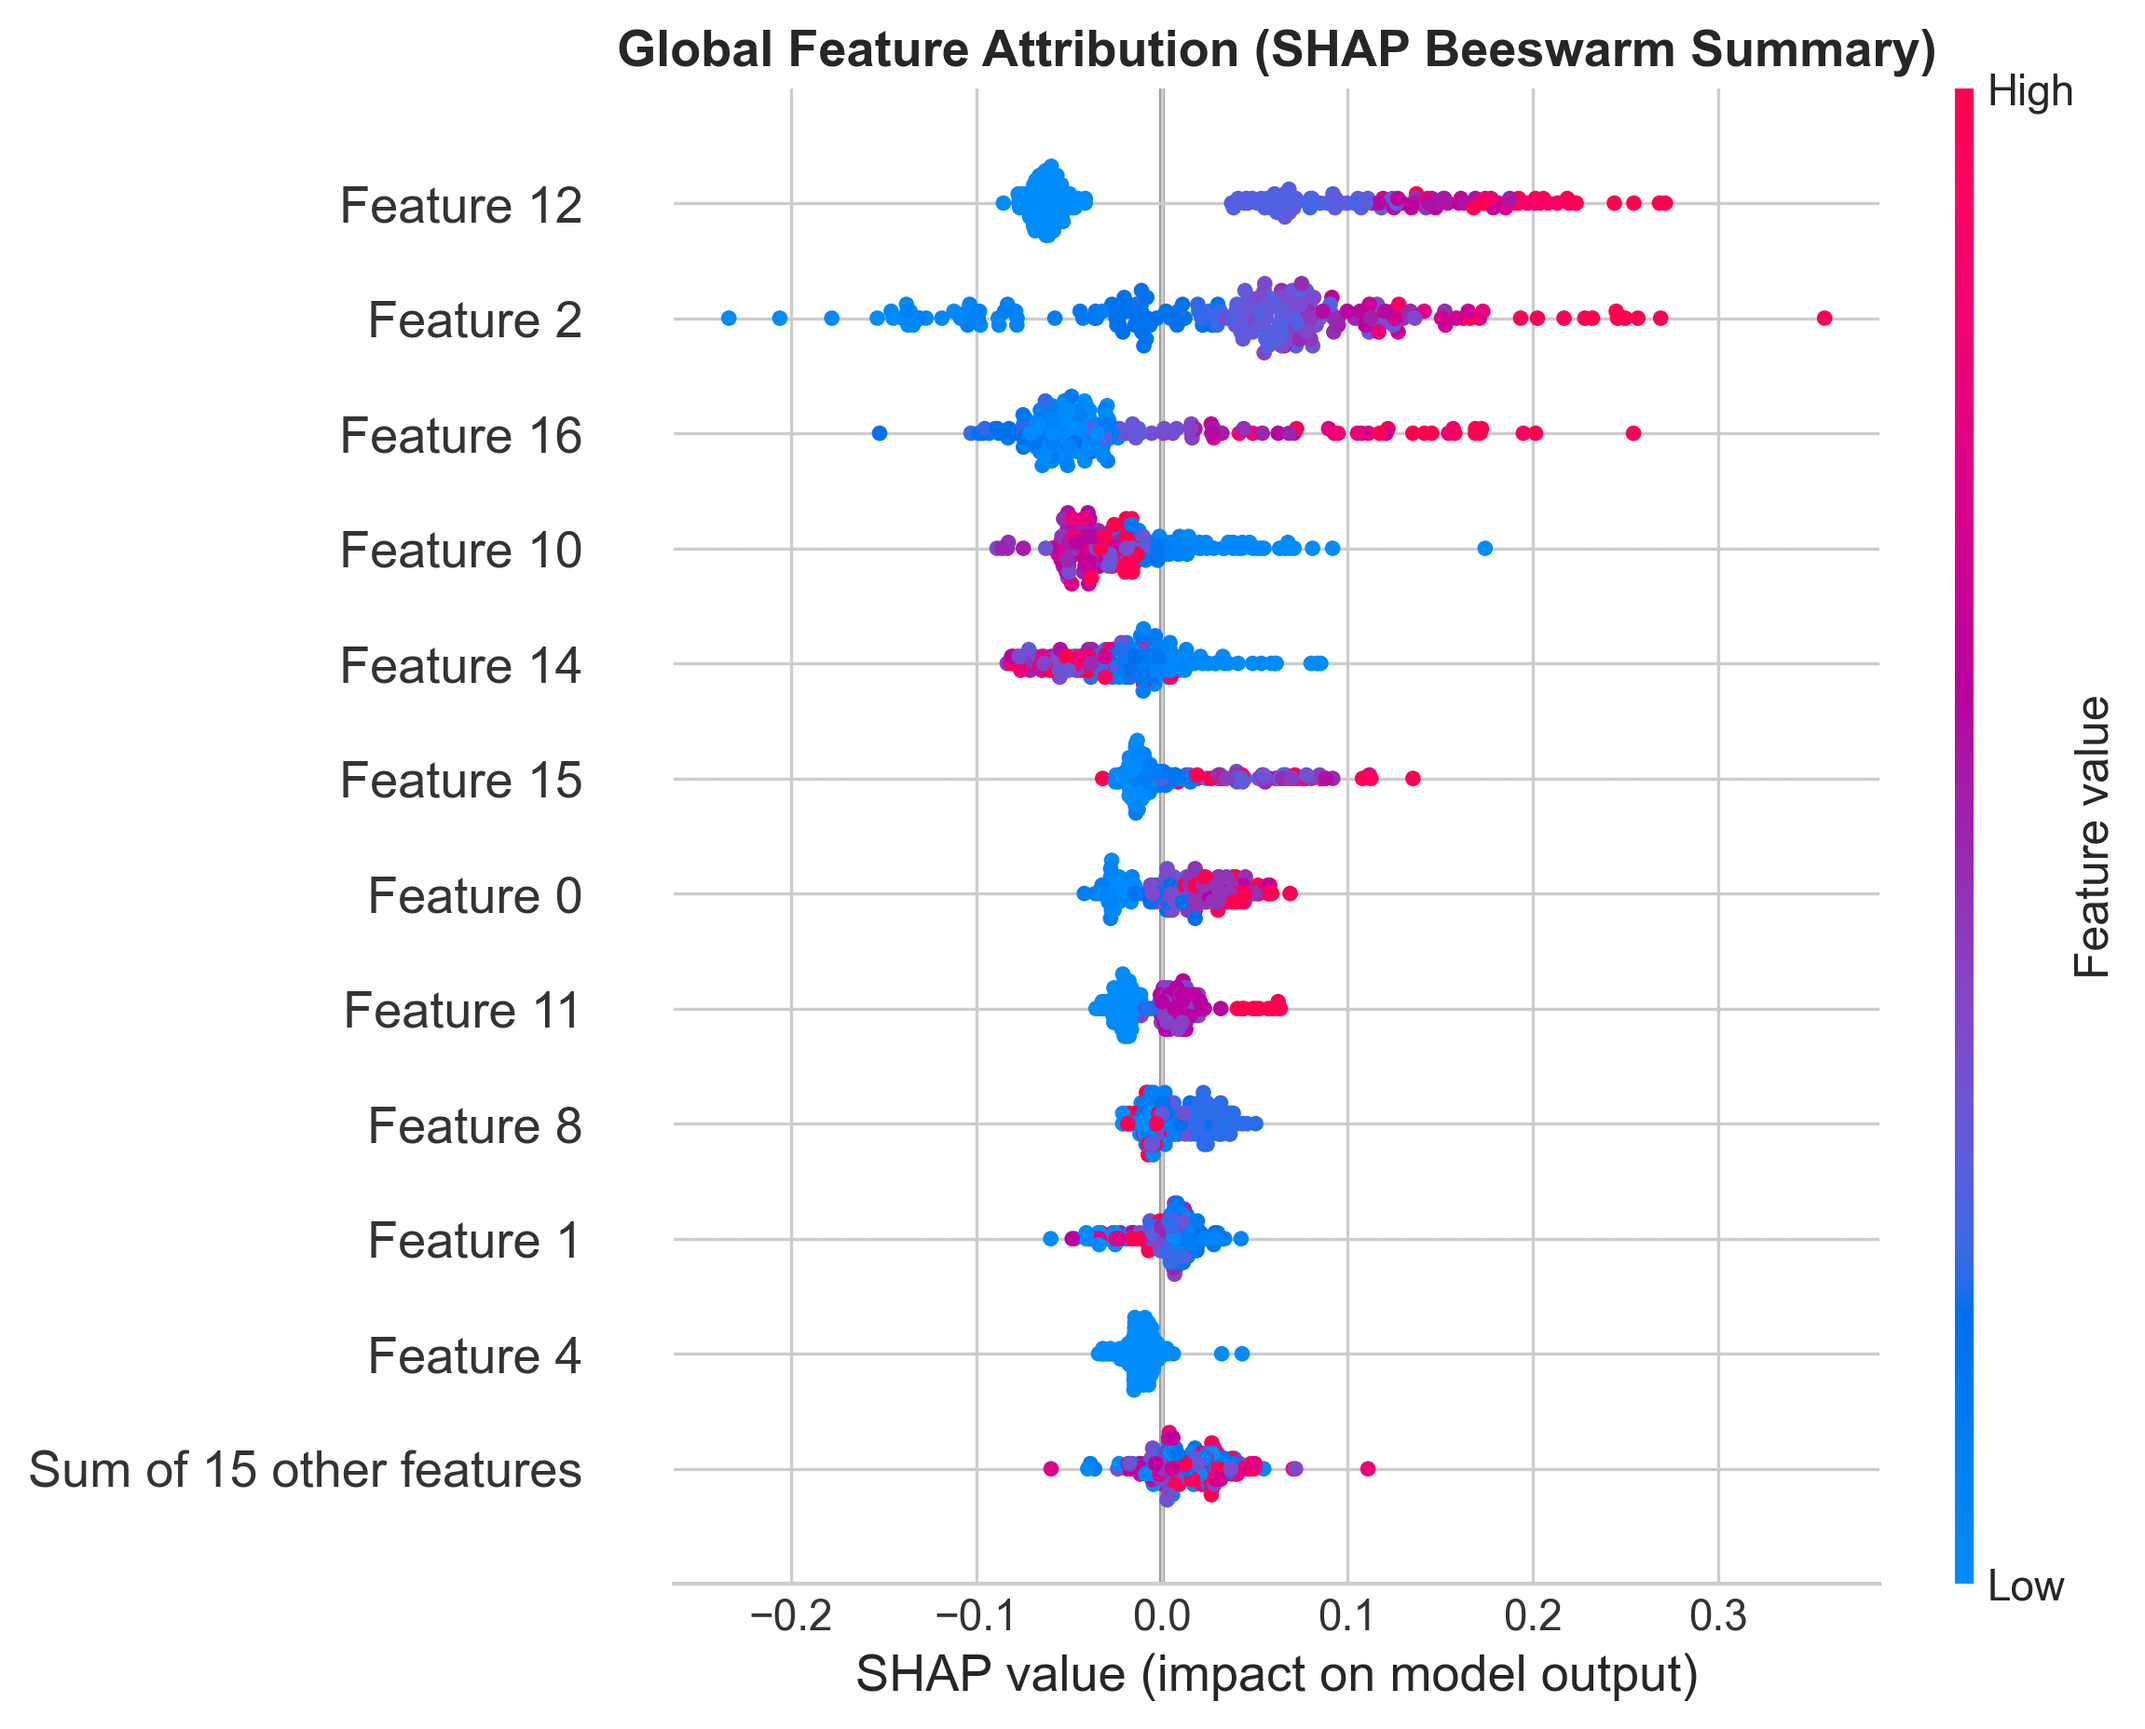
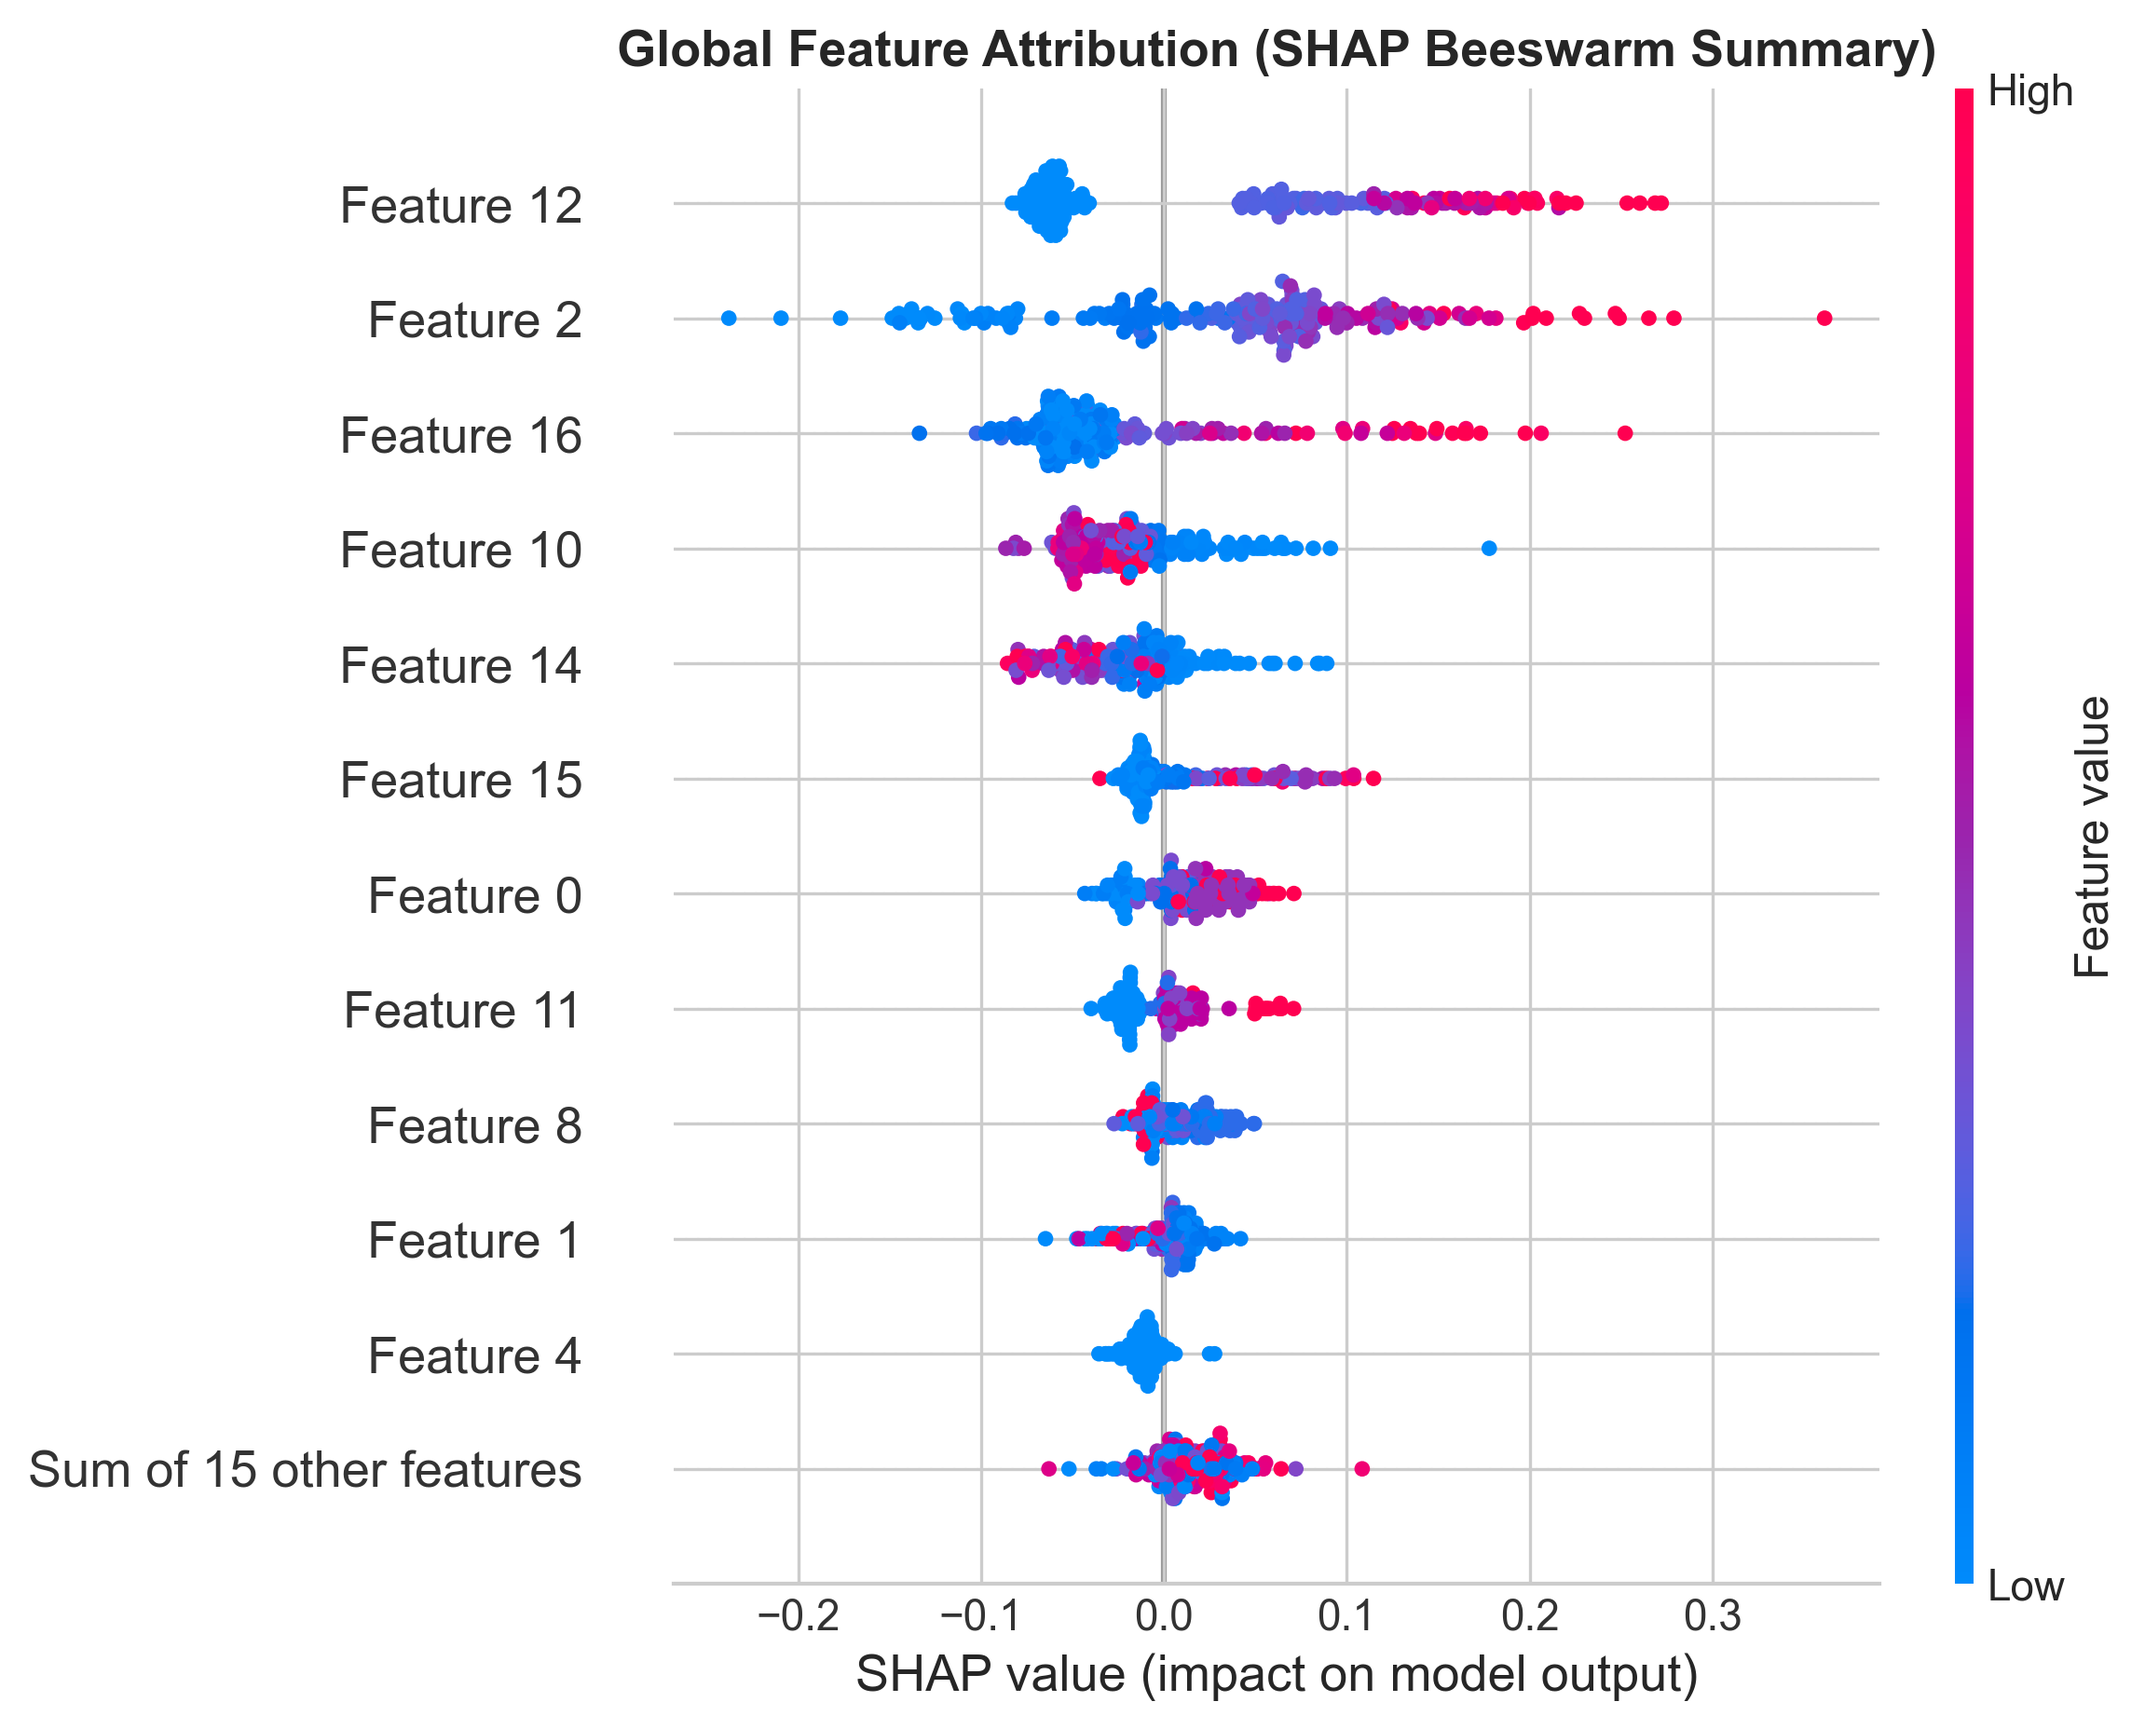
Fix artifact path resolution and add self-healing model generation in UI

diff --git a/app.py b/app.py
@@ -10,7 +10,13 @@ import numpy as np
 import streamlit as st
 
 sys.path.insert(0, os.path.dirname(__file__))
-from src.inference import load_artifacts, get_available_models, get_model_threshold, predict
+from src.inference import (
+    load_artifacts,
+    get_available_models,
+    get_model_threshold,
+    predict,
+    get_last_load_error,
+)
 
 # ── paths ─────────────────────────────────────────────────────────────────────
 FIGURES   = "reports/figures"
@@ -298,10 +304,24 @@ tab_pred, tab_bench = st.tabs(["Predict", "Benchmark"])
 # ══════════════════════════════════════════════════════════════════════════════
 with tab_pred:
     if not model_ready or not available_models:
+        load_err = get_last_load_error()
         st.error(
-            "Model artifacts not found. Run `python main.py` to train and serialize the benchmarked models.",
+            "**Model artifacts not loaded.**\n\n"
+            f"{load_err if load_err else 'The pre-trained model bundle was not found or is incompatible with this Python/NumPy environment.'}",
             icon="🚫",
         )
+        st.info(
+            "💡 You can initialize, train, and serialize all benchmarked models directly in this environment. "
+            "Because pre-processed features are bundled in the repository, training all 5 models takes ~30 seconds."
+        )
+        if st.button("🚀 Train & Generate Compatible Models Now (~30s)", type="primary"):
+            with st.spinner("Training models & saving compatible artifacts in this environment..."):
+                import main as pipeline_main
+                pipeline_main.run_pipeline()
+                st.cache_resource.clear()
+                st.cache_data.clear()
+                st.success("✅ Models successfully trained and serialized! Reloading...")
+                st.rerun()
     else:
         # ── Model Selector Bar ────────────────────────────────────────────────
         st.markdown(

diff --git a/src/inference.py b/src/inference.py
@@ -11,19 +11,46 @@ import pandas as pd
 from typing import Tuple, Dict, Any, Optional, List
 
 logger = logging.getLogger("returniq.inference")
-_ARTIFACT_PATH = os.path.join(os.path.dirname(__file__), "..", "models", "model_artifacts.joblib")
+
+CANDIDATE_PATHS = [
+    os.path.normpath(os.path.join(os.path.dirname(__file__), "..", "models", "model_artifacts.joblib")),
+    os.path.normpath(os.path.join(os.getcwd(), "models", "model_artifacts.joblib")),
+    os.path.normpath("models/model_artifacts.joblib"),
+    os.path.abspath("models/model_artifacts.joblib"),
+]
+
+
+def get_artifact_path() -> Optional[str]:
+    for p in CANDIDATE_PATHS:
+        if os.path.exists(p):
+            return p
+    return None
+
+
+_LAST_LOAD_ERROR: Optional[str] = None
+
+
+def get_last_load_error() -> Optional[str]:
+    return _LAST_LOAD_ERROR
 
 
 def load_artifacts() -> Optional[Dict[str, Any]]:
     """Load and return the serialised model bundle, or None on failure."""
-    path = os.path.normpath(_ARTIFACT_PATH)
-    if not os.path.exists(path):
-        logger.warning("Artifact not found: %s", path)
+    global _LAST_LOAD_ERROR
+    _LAST_LOAD_ERROR = None
+
+    path = get_artifact_path()
+    if not path:
+        _LAST_LOAD_ERROR = f"File 'models/model_artifacts.joblib' not found in search paths: {CANDIDATE_PATHS}"
+        logger.warning(_LAST_LOAD_ERROR)
         return None
+
     try:
-        return joblib.load(path)
+        bundle = joblib.load(path)
+        return bundle
     except Exception as exc:
-        logger.error("Failed to load artifacts: %s", exc)
+        _LAST_LOAD_ERROR = f"Failed to unpickle '{path}': {type(exc).__name__}: {exc}"
+        logger.error(_LAST_LOAD_ERROR)
         return None
 
 
